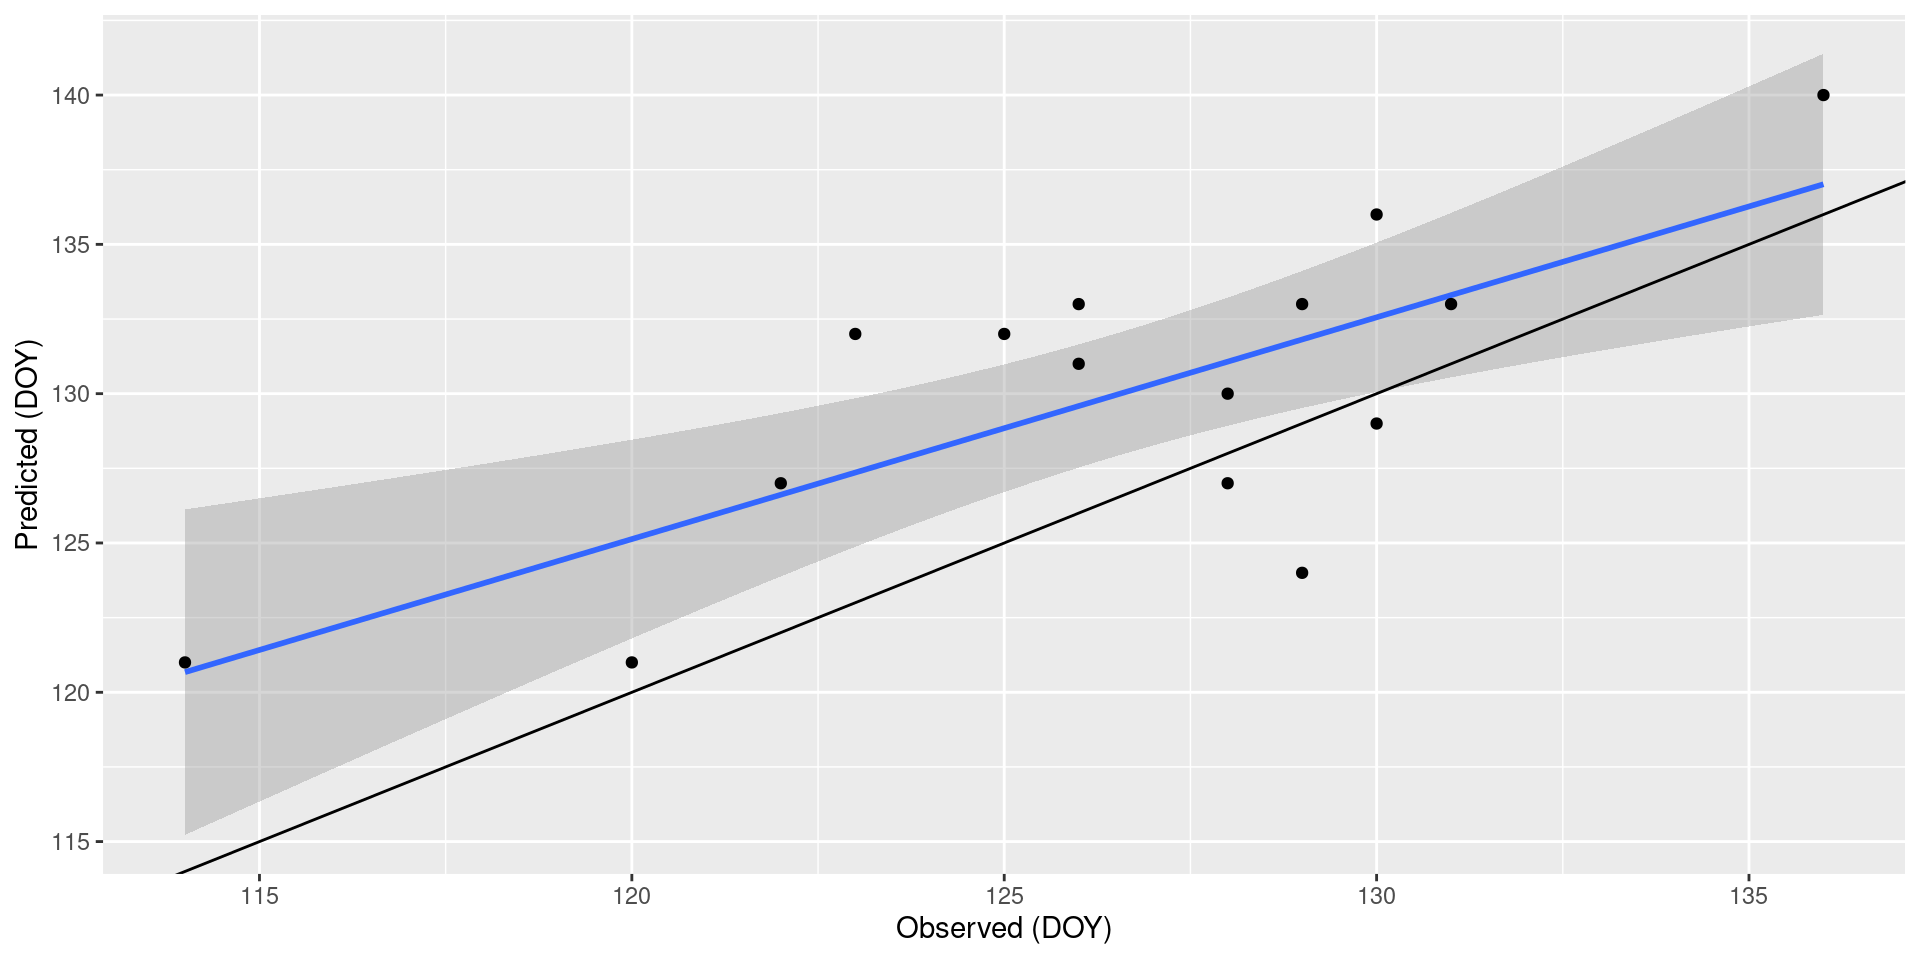
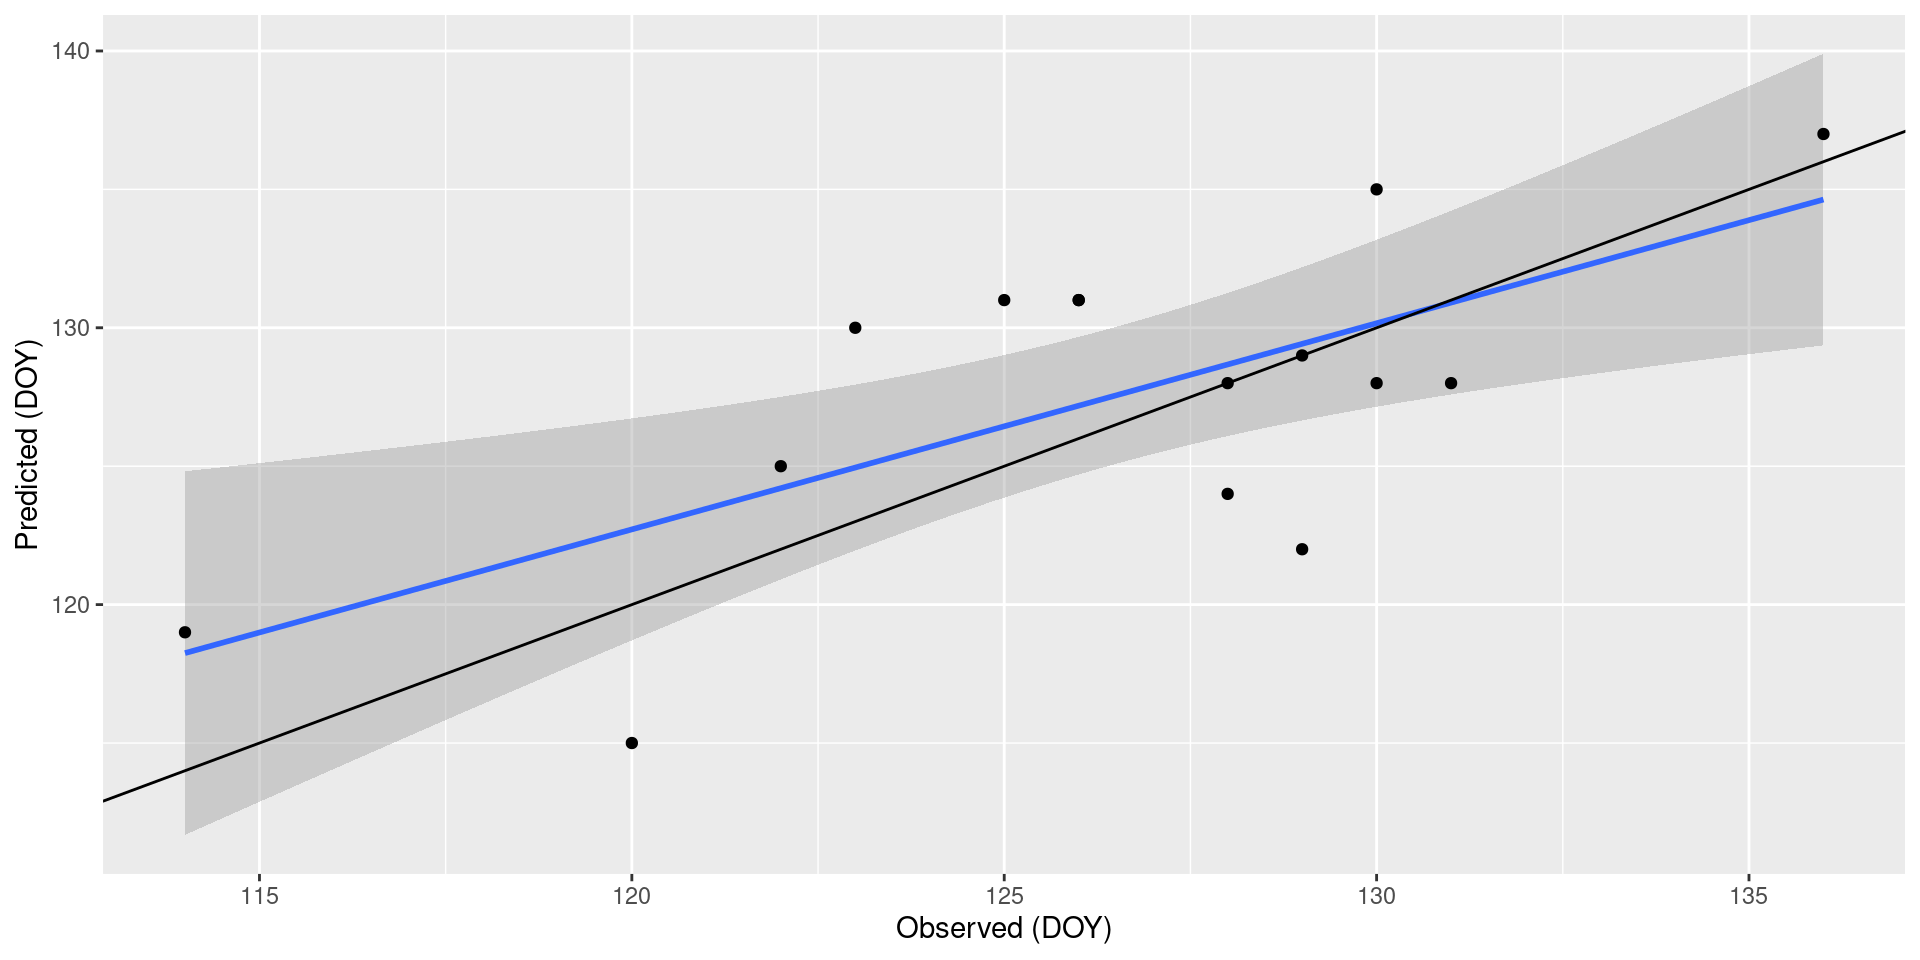
update slides

diff --git a/phenology_workshop.html b/phenology_workshop.html
@@ -1225,7 +1225,7 @@ F-statistic: 2.89e+05 on 1 and 145522 DF,  p-value: &lt; 2.2e-16</code></pre>
 <div class="cell">
 <div class="sourceCode cell-code" id="cb25"><pre class="sourceCode numberSource r number-lines code-with-copy"><code class="sourceCode r"><span id="cb25-1"><a href="#cb25-1"></a><span class="fu">print</span>(optim_par<span class="sc">$</span>par)</span></code><button title="Copy to Clipboard" class="code-copy-button"><i class="bi"></i></button></pre></div>
 <div class="cell-output cell-output-stdout">
-<pre><code>[1]   3.884297 200.752619</code></pre>
+<pre><code>[1]   2.788634 229.785190</code></pre>
 </div>
 </div>
 </section>
@@ -1252,12 +1252,12 @@ F-statistic: 2.89e+05 on 1 and 145522 DF,  p-value: &lt; 2.2e-16</code></pre>
 <pre><code># A tibble: 6 × 2
    year prediction
   &lt;dbl&gt;      &lt;int&gt;
-1  2008        130
-2  2009        127
-3  2010        121
-4  2011        133
-5  2012        121
-6  2013        132</code></pre>
+1  2008        128
+2  2009        125
+3  2010        119
+4  2011        131
+5  2012        115
+6  2013        130</code></pre>
 </div>
 </div>
 </section>
